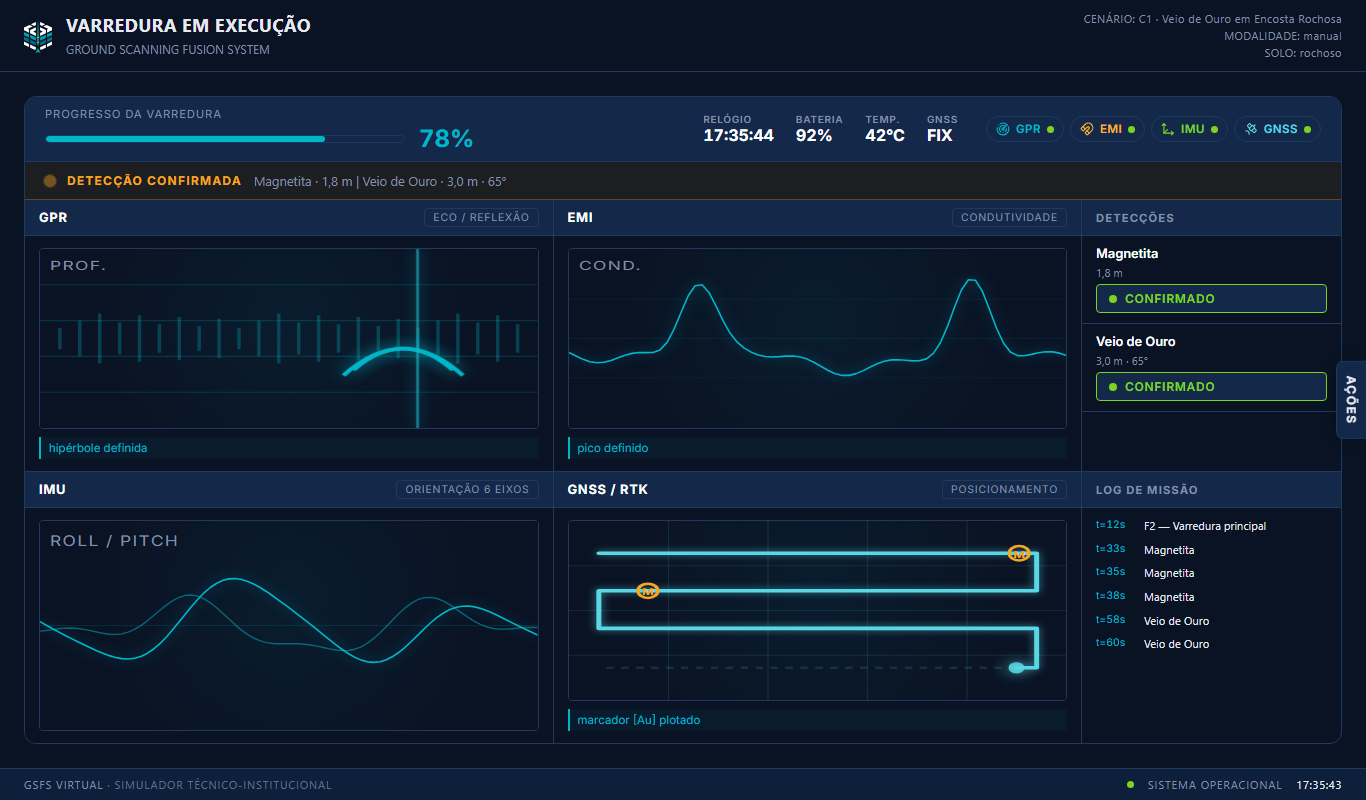
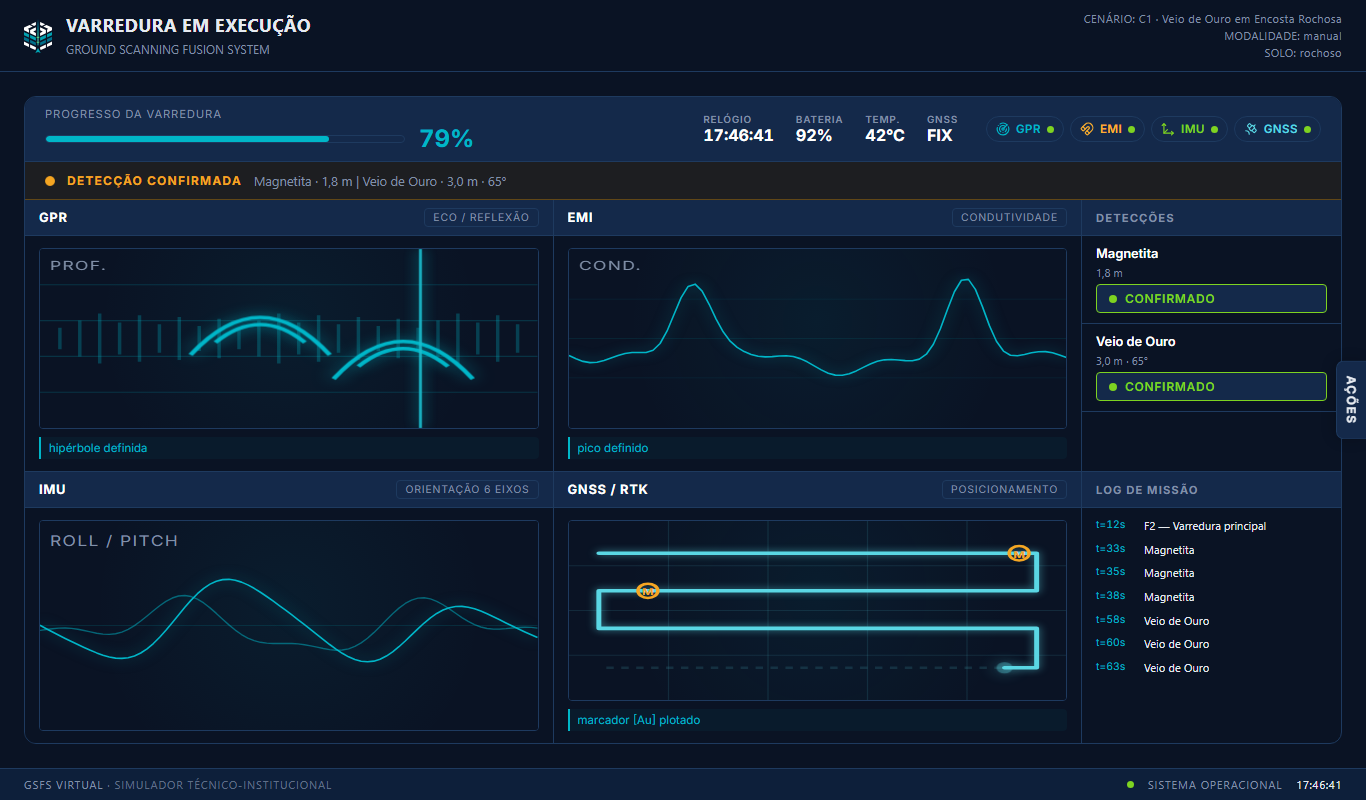
feat(e4): GPR - hiperbole por detecção (padrao), arcos separados, altura por profundidade
- Toda deteccao passa a gerar uma hiperbole no radargrama (comportamento
  padrao), nao apenas as de assinatura GPR. C1 agora mostra 2 (Magnetita +
  Ouro).
- Arcos interno/externo nidificados com folga clara (antes ficavam colados
  no apex).
- Profundidade do achado define a altura no eixo vertical (raso acima,
  fundo abaixo) via depthToY; posicao horizontal pelo instante (at).

diff --git a/app/src/prototype/sim/useScan.ts b/app/src/prototype/sim/useScan.ts
@@ -164,21 +164,17 @@ export function useScan(
   const f2EndSec = Math.max(1, durationSec - 10)
   const progressExact = Math.max(0, Math.min(100, (elapsed / f2EndSec) * 100))
 
-  // Assinaturas de GPR já reveladas: cada achado de GPR (evento de detecção com
-  // nota no sensor gpr) surge no seu instante; lâmina d'água vira linha
-  // horizontal, demais alvos viram hipérbole. Posicionadas pela profundidade.
+  // Padrão: TODA detecção gera uma hipérbole no radargrama, surgindo no seu
+  // instante. `at` = instante do achado na escala da varredura (mesma da linha
+  // de varredura / barra), posicionando a hipérbole onde a varredura estava ao
+  // detectar; `depth` posiciona no eixo vertical (raso = acima, fundo = abaixo).
   const gprSignatures: GprSignature[] = events
-    .filter((e) => e.kind === 'detection' && e.sensors?.gpr && e.t <= elapsed)
+    .filter((e) => e.kind === 'detection' && e.t <= elapsed)
     .map((e) => {
       const tgt = scenario.targets.find((t) => t.label === e.targetRef)
-      if (!tgt) return null
-      // `at` = instante do achado na escala da varredura (mesma da linha de
-      // varredura / barra de progresso): posiciona a hipérbole onde a varredura
-      // estava ao detectar.
       const at = Math.max(0, Math.min(1, e.t / f2EndSec))
-      return { depth: tgt.depth, kind: tgt.type === 'agua' ? 'line' : 'hyperbola', at } as GprSignature
+      return { depth: tgt?.depth ?? 2.5, kind: 'hyperbola', at } as GprSignature
     })
-    .filter((s): s is GprSignature => s !== null)
 
   const emiActive = events.some(
     (e) => e.kind === 'detection' && e.sensors?.emi && e.t <= elapsed,

diff --git a/app/src/ui/sim/SensorGraph.tsx b/app/src/ui/sim/SensorGraph.tsx
@@ -98,8 +98,10 @@ function Gpr({ progress, signatures }: { progress: number; signatures: GprSignat
         const y = depthToY(s.depth)
         return (
           <g className="gpr-hyperbola" key={`h${i}`}>
-            <path d={`M ${cx - 20} ${y + 12} Q ${cx} ${y - 12} ${cx + 20} ${y + 12}`} />
-            <path className="gpr-hyperbola-faint" d={`M ${cx - 24} ${y + 15} Q ${cx} ${y - 15} ${cx + 24} ${y + 15}`} />
+            {/* arco interno (apex na profundidade) e arco externo nidificado
+                com folga clara entre eles */}
+            <path d={`M ${cx - 18} ${y + 10} Q ${cx} ${y - 10} ${cx + 18} ${y + 10}`} />
+            <path className="gpr-hyperbola-faint" d={`M ${cx - 28} ${y + 17} Q ${cx} ${y - 25} ${cx + 28} ${y + 17}`} />
           </g>
         )
       })}
